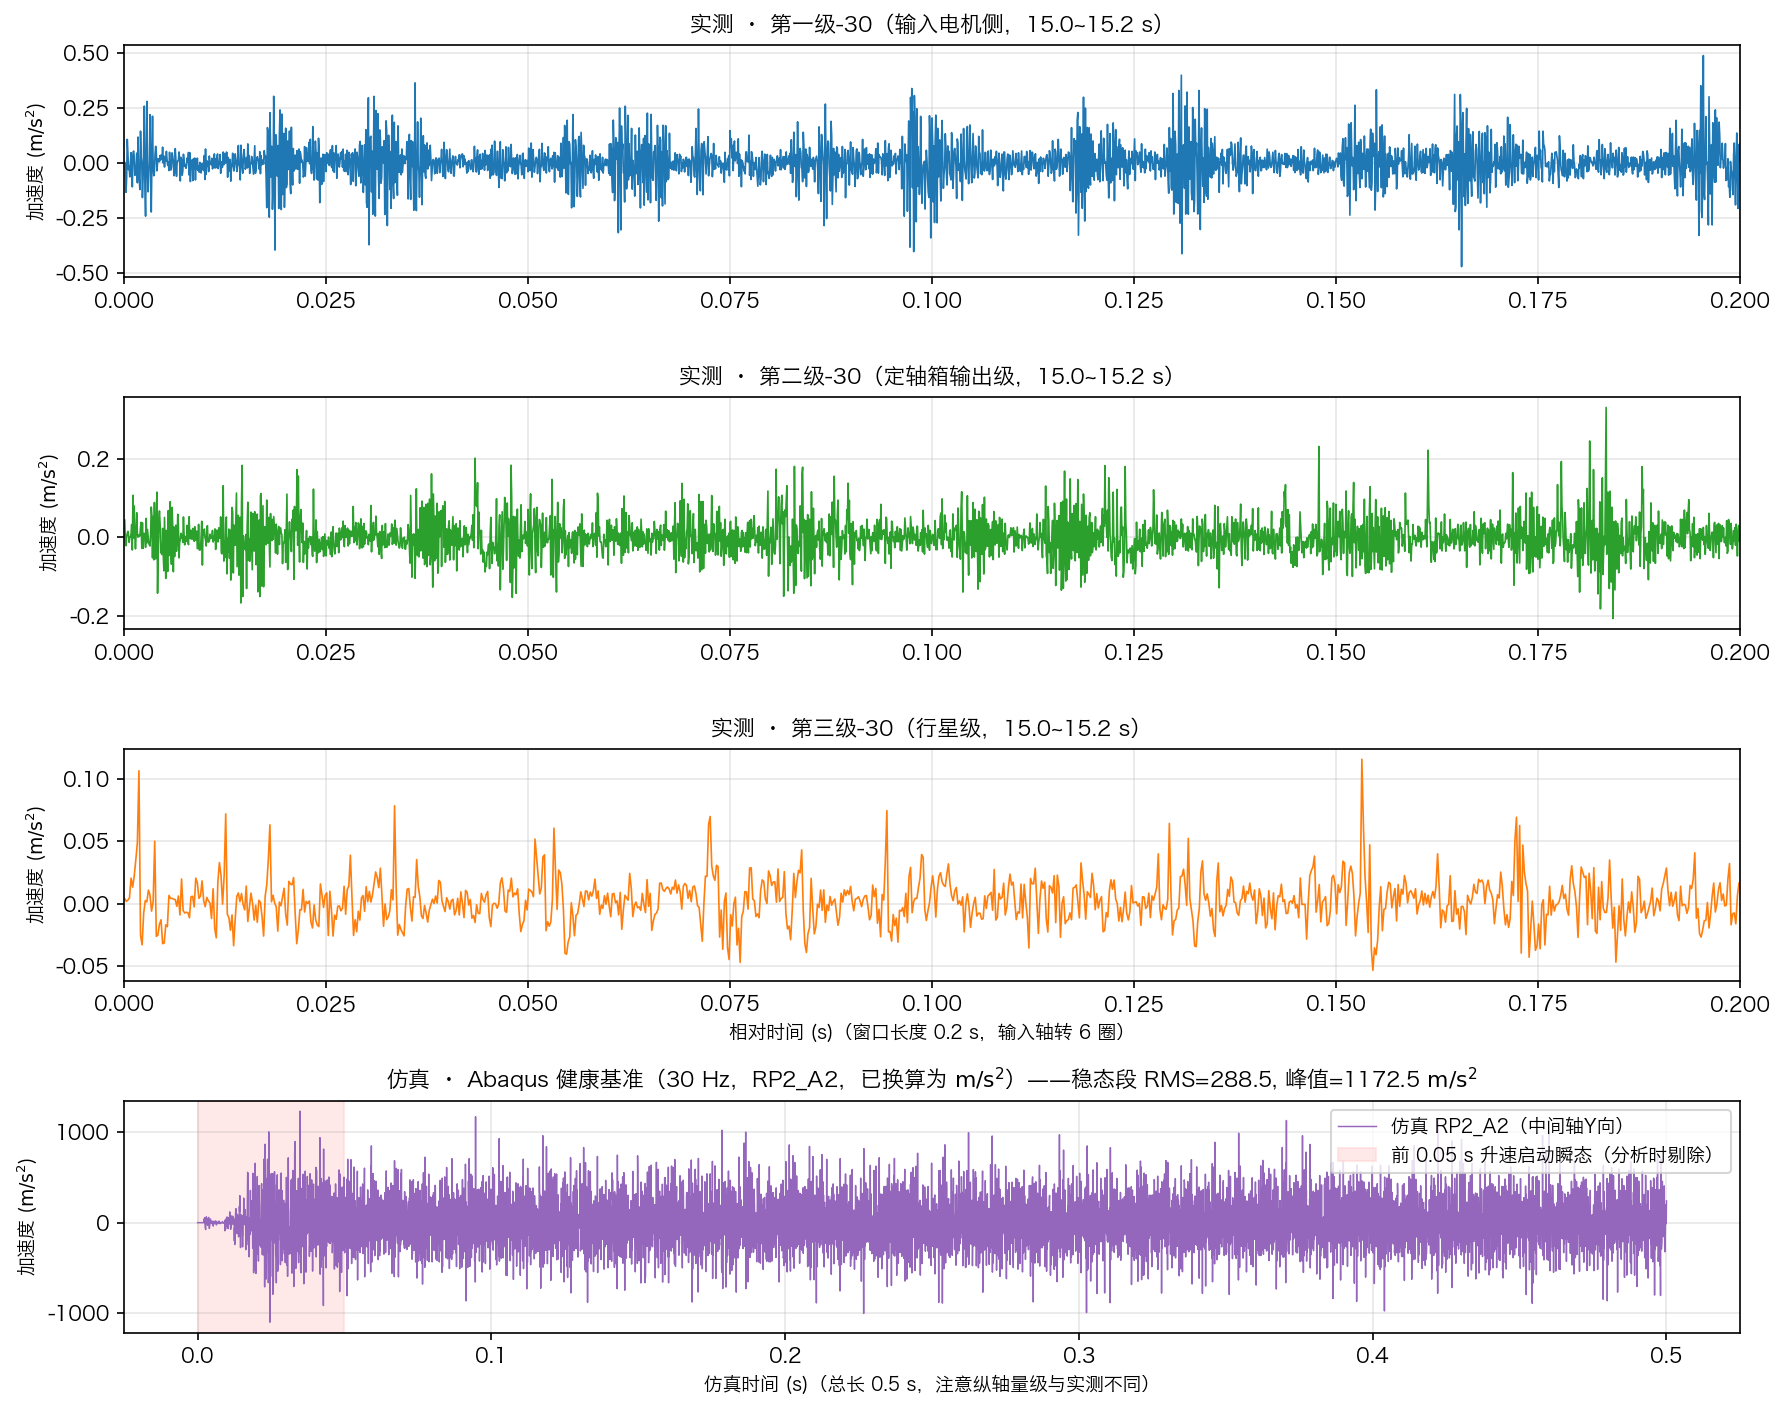
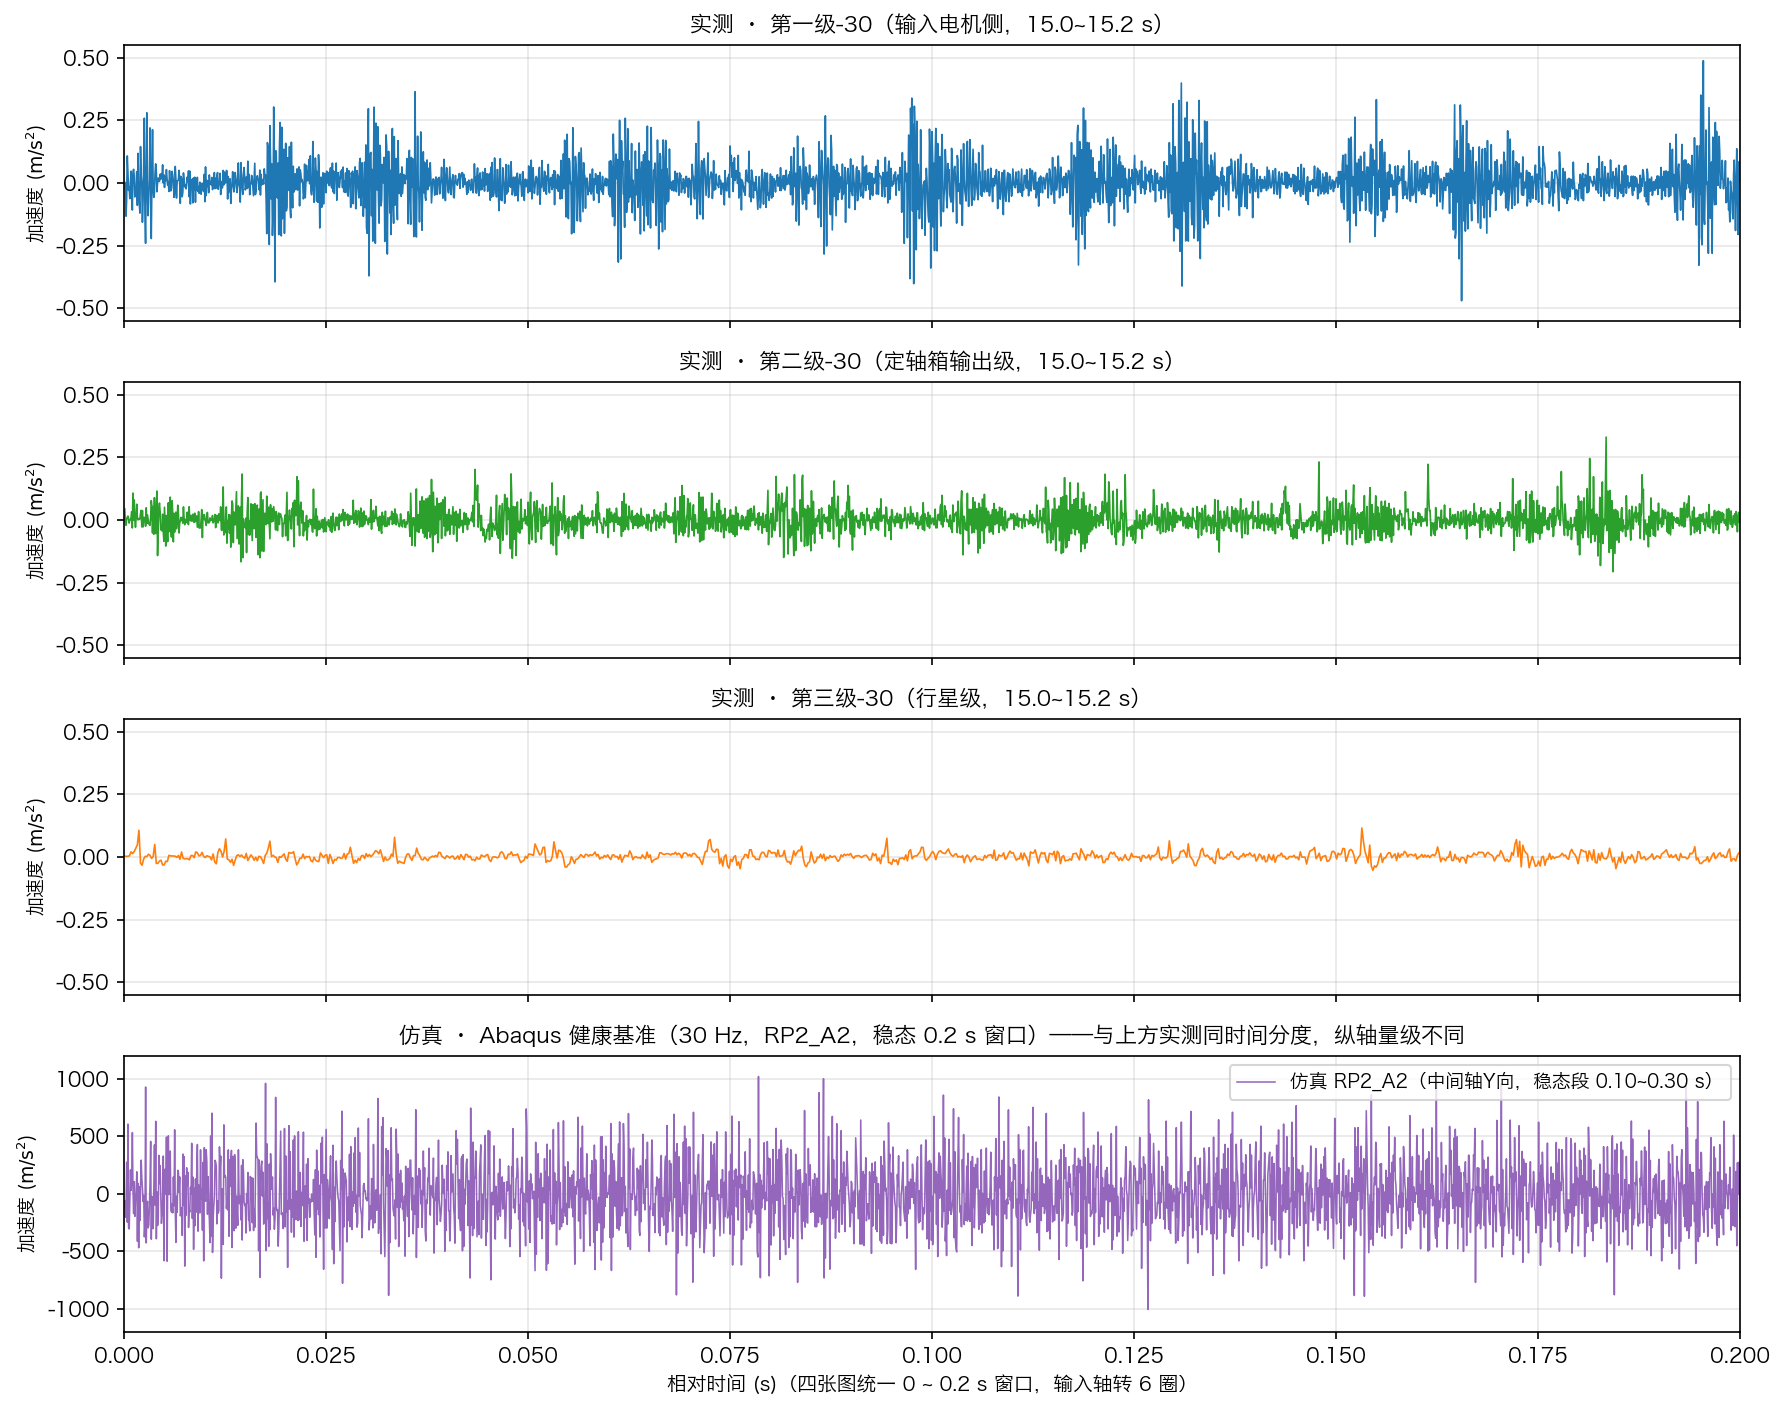
修改观察

diff --git a/analysis/script/step1_data_check.py b/analysis/script/step1_data_check.py
@@ -145,8 +145,8 @@ def plot_all9_overview(out_path: Path) -> pd.DataFrame:
 
 
 def plot_zoom_and_sim(out_path: Path) -> None:
-    """图3：30 Hz 工况下三测点局部 0.2 s 细节放大 + 健康仿真（0~0.5 s）直观对比。"""
-    fig, axes = plt.subplots(4, 1, figsize=(12, 9.5))
+    """图3：30 Hz 工况下三测点局部 0.2 s（同横纵轴分度）+ 健康仿真稳态 0.2 s（同横轴分度）直观对比。"""
+    fig, axes = plt.subplots(4, 1, figsize=(12, 9.5), sharex=True)
 
     cases_30 = [
         ("第一级-30", "#1f77b4", "实测 · 第一级-30（输入电机侧，15.0~15.2 s）"),
@@ -160,25 +160,28 @@ def plot_zoom_and_sim(out_path: Path) -> None:
         axes[i].plot(t[mask] - 15.0, acc[mask], color=color, linewidth=0.8)
         axes[i].set_title(title, fontsize=10.5, fontweight="bold")
         axes[i].set_ylabel(r"加速度 ($\mathrm{m/s^2}$)", fontsize=9)
+        axes[i].set_ylim(-0.55, 0.55)
+        axes[i].set_yticks([-0.5, -0.25, 0.0, 0.25, 0.5])
         axes[i].grid(True, alpha=0.3)
-        axes[i].set_xlim(0, 0.2)
-    axes[2].set_xlabel("相对时间 (s)（窗口长度 0.2 s，输入轴转 6 圈）", fontsize=9)
 
-    # 第4行：健康仿真数据 RP2_A2（中间轴 Y 向，已换算为 m/s^2）
+    # 第4行：健康仿真数据 RP2_A2，取稳态段 0.10 ~ 0.30 s（与上面实测完全相同的 0.2 s 时间分度）
     t_sim, acc_sim, fs_sim, meta_sim = load_simulation_csv(column="RP2_A2", trim_start_s=0.0)
-    steady_mask = t_sim >= 0.05
-    sim_rms = float(np.sqrt(np.mean(acc_sim[steady_mask] ** 2)))
-    sim_peak = float(np.max(np.abs(acc_sim[steady_mask])))
+    sim_mask = (t_sim >= 0.10) & (t_sim <= 0.30)
+    t_sim_win = t_sim[sim_mask] - 0.10
+    acc_sim_win = acc_sim[sim_mask]
 
-    axes[3].plot(t_sim, acc_sim, color="#9467bd", linewidth=0.7, label="仿真 RP2_A2（中间轴Y向）")
-    axes[3].axvspan(0, 0.05, color="#ffcccc", alpha=0.45, label="前 0.05 s 升速启动瞬态（分析时剔除）")
+    axes[3].plot(t_sim_win, acc_sim_win, color="#9467bd", linewidth=0.75, label="仿真 RP2_A2（中间轴Y向，稳态段 0.10~0.30 s）")
     axes[3].set_title(
-        rf"仿真 · Abaqus 健康基准（30 Hz，RP2_A2，已换算为 $\mathrm{{m/s^2}}$）——稳态段 RMS={sim_rms:.1f}, 峰值={sim_peak:.1f} $\mathrm{{m/s^2}}$",
+        r"仿真 · Abaqus 健康基准（30 Hz，RP2_A2，稳态 0.2 s 窗口）——与上方实测同时间分度，纵轴量级不同",
         fontsize=10.5,
         fontweight="bold",
     )
-    axes[3].set_xlabel("仿真时间 (s)（总长 0.5 s，注意纵轴量级与实测不同）", fontsize=9)
+    axes[3].set_xlabel("相对时间 (s)（四张图统一 0 ~ 0.2 s 窗口，输入轴转 6 圈）", fontsize=9.5)
     axes[3].set_ylabel(r"加速度 ($\mathrm{m/s^2}$)", fontsize=9)
+    axes[3].set_xlim(0.0, 0.2)
+    axes[3].set_xticks(np.arange(0.0, 0.201, 0.025))
+    axes[3].set_ylim(-1200, 1200)
+    axes[3].set_yticks([-1000, -500, 0, 500, 1000])
     axes[3].legend(loc="upper right", fontsize=9)
     axes[3].grid(True, alpha=0.3)
 
